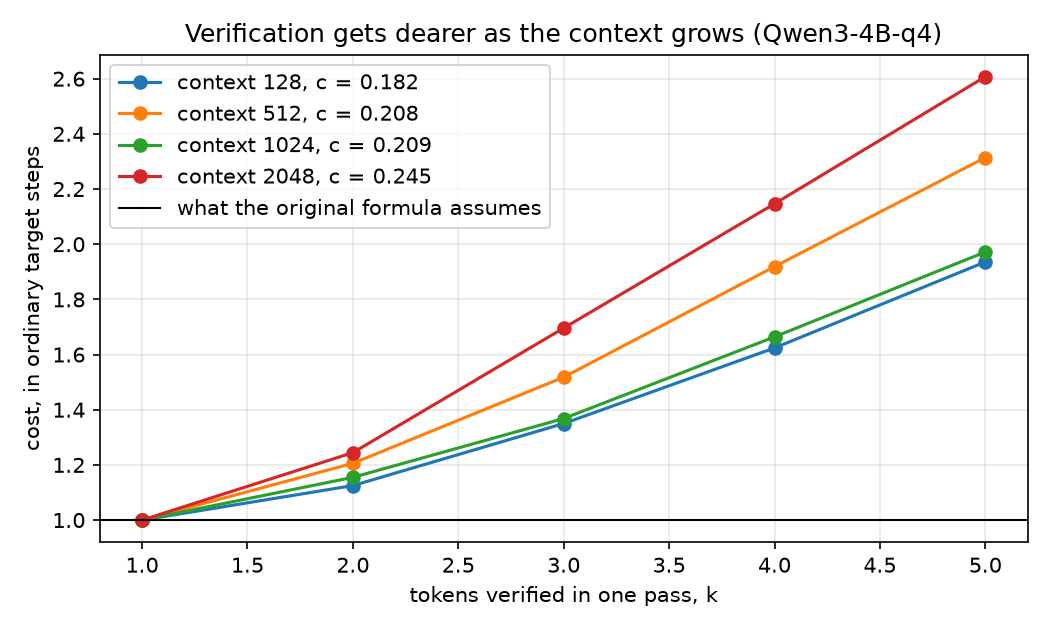
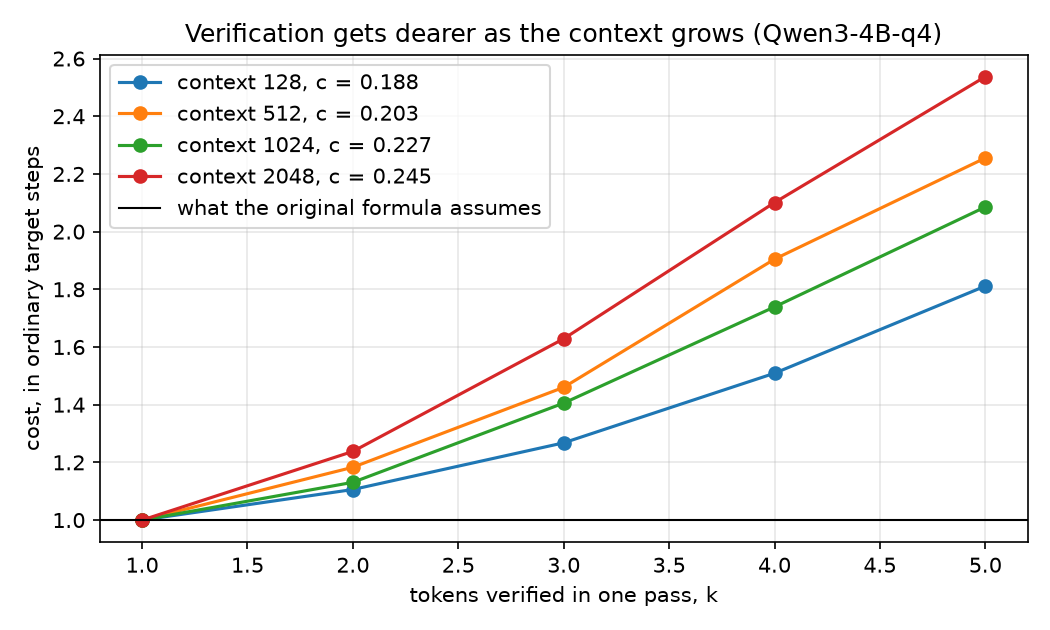
Decide which sweep to draw from the directory, not from a date in the source
My first attempt at pointing the figures away from the confounded sweep hardcoded the session date
into measured_runs' default glob and blacklisted specbench_gamma{1..4}.json by name. That broke
test_the_gamma_figure_reads_decode_speedups_and_falls_back, which builds a results directory out of
exactly those filenames and asserts the function reads them -- and the test was right. A helper's
contract should not depend on which night the repository was last measured, and a blacklist of four
names would have rotted at the next session.

The rule that belongs here is methodological and reads the directory:

  - A fixed-order sweep is superseded as soon as an order-cancelled one exists beside it, and only
    then. Visiting gamma in one order cannot separate drift from the effect, which is why the
    2026-10-05 sweep reads 11-19% low in three of four entries -- but in a results tree nobody has
    re-measured, those files are still the best data there is.
  - An order-cancelled sweep needs both passes at a gamma, since cancelling the order is the only
    thing running two buys. A gamma with one pass is dropped, which is what the 2026-10-24 attempt
    is: reaped three runs into eight.

Grouping is by (session, gamma), not gamma. Grouping by gamma alone counted pass A of one night and
both passes of another as three passes at that gamma, which both admitted the lone run and averaged
across machine states -- caught by a test written for it, not by reading the code. Between two
[…]

diff --git a/scripts/make_plots.py b/scripts/make_plots.py
@@ -54,28 +54,83 @@ def finish(figure, axes, out: Path, name: str, title: str) -> None:
     print(f"  wrote {path}")
 
 
-# The one session whose conditions were measured at both ends and held: read bandwidth drifted 0.12%
-# across every run in it. Figures are drawn from this session alone, because mixing it with earlier
-# ones is the stitching error plan section 13 exists to prevent.
-SESSION = "2026-10-25_quiet"
-
-# results/specbench_gamma{1..4}.json ran strictly ascending and back to back on 2026-10-05, so every
-# larger gamma inherited the heat of the runs before it. Three of its four entries are 11-19% low.
-# See results/README.md.
-CONFOUNDED = ("specbench_gamma1.json", "specbench_gamma2.json",
-              "specbench_gamma3.json", "specbench_gamma4.json")
+PASS_SWEEP = "specbench_*_pass*_gamma*.json"
+FIXED_SWEEP = "specbench_gamma*.json"
 
 
-def usable(path: Path) -> bool:
-    """False for a stored run that results/README.md says must not be quoted.
+def _gamma_of(path: Path) -> int | None:
+    name = path.stem
+    marker = name.rfind("gamma")
+    if marker < 0:
+        return None
+    digits = "".join(c for c in name[marker + 5:] if c.isdigit())
+    return int(digits) if digits else None
 
-    Two groups. The 2026-10-05 sweep is confounded by its ascending visit order. The 2026-10-24
-    Spec-Bench files are an order-aware attempt that was reaped three runs into eight, so they are a
-    single pass with no reverse order to cancel against -- which is the one thing they were for.
+
+def quotable_sweep(results: Path) -> set[Path]:
+    """The gamma-sweep files in `results` that may be drawn, by two methodological rules.
+
+    A sweep that visits gamma in one fixed order cannot separate drift from the effect it is
+    measuring: results/specbench_gamma{1..4}.json ran ascending and back to back, and three of its
+    four entries read 11-19% low against the same sweep re-measured with the order cancelled. So a
+    fixed-order sweep is superseded -- **but only once an order-cancelled one exists beside it**,
+    because in a directory nobody has re-measured it is still the best data there is.
+
+    An order-cancelled sweep in turn needs *both* passes at a gamma, since cancelling the order is
+    the whole point of running two. A gamma with a single pass is dropped, which is what happened to
+    the 2026-10-24 attempt: it was reaped three runs into eight.
+
+    Both rules read the directory rather than a date, so a results tree that has never been
+    re-measured and one that was re-measured last night each get the right answer.
     """
-    if path.name in CONFOUNDED:
-        return False
-    return "2026-10-24" not in path.name
+    # Group by (session, gamma). Grouping by gamma alone would let a single-pass session ride along
+    # on another session's second pass, and averaging across sessions is the stitching error in the
+    # first place.
+    by_key: dict[tuple[str, int], list[Path]] = {}
+    for path in sorted(results.glob(PASS_SWEEP)):
+        gamma = _gamma_of(path)
+        if gamma is None:
+            continue
+        marker = path.stem.find("_pass")
+        session = path.stem[:marker] if marker > 0 else path.stem
+        by_key.setdefault((session, gamma), []).append(path)
+
+    covered: dict[str, set[int]] = {}
+    for (session, gamma), paths in by_key.items():
+        if len(paths) >= 2:
+            covered.setdefault(session, set()).add(gamma)
+    if covered:
+        # One session only, and the one that covers the most gammas; ties go to the later name,
+        # which for a dated session is the newer measurement.
+        best = max(sorted(covered), key=lambda s: len(covered[s]))
+        return {p for (session, gamma), paths in by_key.items() if session == best
+                and gamma in covered[best] for p in paths}
+    return set(results.glob(FIXED_SWEEP))
+
+
+def mean_blob(blobs: list[dict]) -> dict:
+    """Average the shuffled passes of one measurement into the figure that should be drawn.
+
+    A single pass is not the number: every context and every gamma is run twice in different orders
+    precisely so that drift cannot masquerade as the effect, and the average over the passes is what
+    PLAN.md quotes.
+    """
+    out = dict(blobs[0])
+    n = len(blobs)
+    for key in ("c", "target_step_seconds", "draft_step_seconds"):
+        vals = [b[key] for b in blobs if isinstance(b.get(key), (int, float))]
+        if vals:
+            out[key] = sum(vals) / len(vals)
+    if all("v" in b for b in blobs):
+        keys = set(blobs[0]["v"])
+        out["v"] = {k: sum(float(b["v"][k]) for b in blobs) / n
+                    for k in keys if all(k in b["v"] for b in blobs)}
+    overheads = [b.get("overhead", {}).get("o_per_round") for b in blobs]
+    if all(isinstance(o, (int, float)) for o in overheads):
+        out["overhead"] = dict(blobs[0].get("overhead", {}))
+        out["overhead"]["o_per_round"] = sum(overheads) / n
+    out["passes_averaged"] = n
+    return out
 
 
 def mean_blob(blobs: list[dict]) -> dict:
@@ -102,8 +157,7 @@ def mean_blob(blobs: list[dict]) -> dict:
     out["passes_averaged"] = n
     return out
 
-def measured_runs(results: Path,
-                  pattern: str = f"specbench_{SESSION}_pass*_gamma*.json") -> list[dict]:
+def measured_runs(results: Path, pattern: str | None = None) -> list[dict]:
     """Spec-Bench runs that form a gamma sweep, newest-sorted, with the numbers to compare.
 
     Only the sweep files by default: they are one prompt set measured at several gamma, which is what
@@ -114,8 +168,9 @@ def measured_runs(results: Path,
     with a prediction: gamma*c + v(gamma+1) + o says nothing about a prompt pass, which is 45-92% of
     the wall clock here, and which speculative decoding pays for twice.
     """
+    paths = sorted(results.glob(pattern)) if pattern else sorted(quotable_sweep(results))
     runs = []
-    for path in sorted(results.glob(pattern)):
+    for path in paths:
         blob = load(path)
         if blob is None or blob.get("gamma") is None:
             continue
@@ -194,8 +249,8 @@ def plot_vk_by_context(results: Path, out: Path) -> None:
     context and applying it to long prompts over-predicts the speedup, which is exactly the mistake
     section 10.4 records.
     """
-    paths = sorted(results.glob(f"vk_{SESSION}_pass*/vk_*.json"))
-    if not paths:  # before the canonical session existed
+    paths = sorted(results.glob("vk_*_pass*/vk_*.json"))
+    if not paths:  # a results tree with no order-cancelled v(k) sweep in it
         paths = sorted(list(results.glob("vk_*.json"))
                        + list(results.glob("vk_context*/vk_*.json")))
 
@@ -230,7 +285,7 @@ def plot_vk_by_context(results: Path, out: Path) -> None:
 
 
 def plot_speedup_vs_gamma(results: Path, out: Path) -> None:
-    for path in sorted(list(results.glob(f"vk_{SESSION}_pass*/vk_*.json"))
+    for path in sorted(list(results.glob("vk_*_pass*/vk_*.json"))
                        or list(results.glob("vk_*.json"))):
         blob = load(path)
         if blob is None or not blob.get("predictions"):
@@ -344,9 +399,10 @@ def plot_specbench(results: Path, out: Path) -> None:
     figure carries both rather than picking one. Decoding is what the cost model predicts; the whole
     call is what a user waits for, and on a 1450-token prompt most of that is the prompt pass.
     """
+    quotable = quotable_sweep(results)
     for path in sorted(results.glob("specbench*.json")):
-        if not usable(path):
-            continue
+        if _gamma_of(path) is not None and path not in quotable:
+            continue  # a superseded sweep; see quotable_sweep
         blob = load(path)
         if blob is None or "speedups" not in blob:
             continue
@@ -385,8 +441,9 @@ def plot_predicted_vs_measured(results: Path, out: Path) -> None:
     describes rounds, and a prompt pass is neither a round nor affected by any of this.
     """
     offline = [load(path) for path in sorted(results.glob("offline_*.json"))]
+    quotable = quotable_sweep(results)
     bench = [load(path) for path in sorted(results.glob("specbench*.json"))
-             if usable(path)]
+             if _gamma_of(path) is None or path in quotable]
     pairs = []
     for measured in bench:
         if measured is None or "speedups" not in measured:

diff --git a/tests/test_specbench.py b/tests/test_specbench.py
@@ -351,3 +351,109 @@ def test_the_prediction_uses_v_at_gamma_plus_one():
     assert plots.predict(blob, 1, 1.72) == pytest.approx(1.72 / (0.186 + 1.12 + 0.007))
     assert plots.predict(blob, 2, 2.28) == pytest.approx(2.28 / (2 * 0.186 + 1.34 + 0.007))
     assert plots.predict({"c": 0.2}, 1, 1.7) is None  # no v(k) measured, no prediction
+
+
+def test_a_fixed_order_sweep_is_used_until_an_order_cancelled_one_exists(tmp_path):
+    """The fixed-order sweep is superseded, but only once there is something to supersede it.
+
+    Visiting gamma in one order makes drift indistinguishable from the effect: the sweep stored on
+    2026-10-05 ran ascending and back to back and read 11-19% low in three of its four entries. That
+    is a reason to prefer an order-cancelled sweep, not a reason to draw nothing -- a results tree
+    nobody has re-measured still has the fixed-order files as its best available data.
+    """
+    plots = load_make_plots()
+    write_run(tmp_path / "specbench_gamma1.json", 1, 1.20, 1.72, decode=True)
+    write_run(tmp_path / "specbench_gamma2.json", 2, 1.01, 2.28, decode=True)
+
+    assert {p.name for p in plots.quotable_sweep(tmp_path)} == {
+        "specbench_gamma1.json", "specbench_gamma2.json"}
+
+    # Now add an order-cancelled sweep beside it: two passes at each gamma.
+    for label in ("A", "B"):
+        write_run(tmp_path / f"specbench_2026-10-25_quiet_pass{label}_gamma1.json",
+                  1, 1.19, 1.76, decode=True)
+    assert {p.name for p in plots.quotable_sweep(tmp_path)} == {
+        "specbench_2026-10-25_quiet_passA_gamma1.json",
+        "specbench_2026-10-25_quiet_passB_gamma1.json"}
+
+
+def test_a_single_pass_sweep_does_not_count_as_order_cancelled(tmp_path):
+    """One pass is not a cancelled order, which is the only thing running two passes buys.
+
+    The 2026-10-24 attempt was reaped three runs into eight, leaving pass A alone. Carrying a pass
+    marker in the filename is not the same as having a reverse order to cancel against.
+    """
+    plots = load_make_plots()
+    write_run(tmp_path / "specbench_gamma1.json", 1, 1.20, 1.72, decode=True)
+    write_run(tmp_path / "specbench_2026-10-24_quiet_passA_gamma1.json", 1, 1.11, 1.70, decode=True)
+
+    # Falls back to the fixed-order sweep rather than trusting a lone pass.
+    assert {p.name for p in plots.quotable_sweep(tmp_path)} == {"specbench_gamma1.json"}
+
+
+def test_passes_are_not_pooled_across_sessions(tmp_path):
+    """A lone pass must not ride along on a different session's second pass.
+
+    Grouping by gamma alone counts pass A of one night and both passes of another as three passes at
+    that gamma, which both admits the lone run and averages across machine states -- the stitching
+    error plan section 13 exists to prevent.
+    """
+    plots = load_make_plots()
+    write_run(tmp_path / "specbench_2026-10-24_quiet_passA_gamma1.json", 1, 1.11, 1.70, decode=True)
+    for label in ("A", "B"):
+        write_run(tmp_path / f"specbench_2026-10-25_quiet_pass{label}_gamma1.json",
+                  1, 1.19, 1.76, decode=True)
+
+    chosen = {p.name for p in plots.quotable_sweep(tmp_path)}
+    assert chosen == {"specbench_2026-10-25_quiet_passA_gamma1.json",
+                      "specbench_2026-10-25_quiet_passB_gamma1.json"}
+    assert all("2026-10-24" not in name for name in chosen)
+
+
+def test_the_session_covering_more_gammas_wins(tmp_path):
+    """Between two order-cancelled sessions, the one that swept further is the sweep."""
+    plots = load_make_plots()
+    for label in ("A", "B"):
+        write_run(tmp_path / f"specbench_2026-10-20_quiet_pass{label}_gamma1.json",
+                  1, 1.19, 1.76, decode=True)
+        for gamma in (1, 2, 3):
+            write_run(tmp_path / f"specbench_2026-10-25_quiet_pass{label}_gamma{gamma}.json",
+                      gamma, 1.19, 1.76, decode=True)
+
+    chosen = {p.name for p in plots.quotable_sweep(tmp_path)}
+    assert len(chosen) == 6
+    assert all("2026-10-25" in name for name in chosen)
+
+
+def test_measured_runs_averages_the_passes_sharing_a_gamma(tmp_path):
+    """Two passes at one gamma are one measurement, so the curve plots their average.
+
+    Taking either pass alone reports whichever one happened to run on the cooler machine, which is
+    how the 2026-10-24 reading that gamma=2 beat gamma=1 was produced.
+    """
+    plots = load_make_plots()
+    write_run(tmp_path / "specbench_2026-10-25_quiet_passA_gamma1.json", 1, 1.10, 1.70, decode=True)
+    write_run(tmp_path / "specbench_2026-10-25_quiet_passB_gamma1.json", 1, 1.30, 1.80, decode=True)
+
+    runs = plots.measured_runs(tmp_path)
+    assert len(runs) == 1
+    assert runs[0]["gamma"] == 1
+    assert runs[0]["decode"] == pytest.approx(1.20)  # not 1.10 and not 1.30
+    assert runs[0]["tau"] == pytest.approx(1.75)
+    assert runs[0]["passes_averaged"] == 2
+
+
+def test_mean_blob_averages_v_c_and_o(tmp_path):
+    """v(k) is averaged per k, and c and o with it, so a figure shows the measurement not a pass."""
+    plots = load_make_plots()
+    a = {"context": 512, "c": 0.20, "v": {"1": 1.0, "2": 1.10},
+         "overhead": {"o_per_round": 0.006}}
+    b = {"context": 512, "c": 0.22, "v": {"1": 1.0, "2": 1.30},
+         "overhead": {"o_per_round": 0.008}}
+
+    out = plots.mean_blob([a, b])
+    assert out["c"] == pytest.approx(0.21)
+    assert out["v"]["2"] == pytest.approx(1.20)
+    assert out["overhead"]["o_per_round"] == pytest.approx(0.007)
+    assert out["passes_averaged"] == 2
+    assert out["context"] == 512  # not averaged; it identifies the measurement
